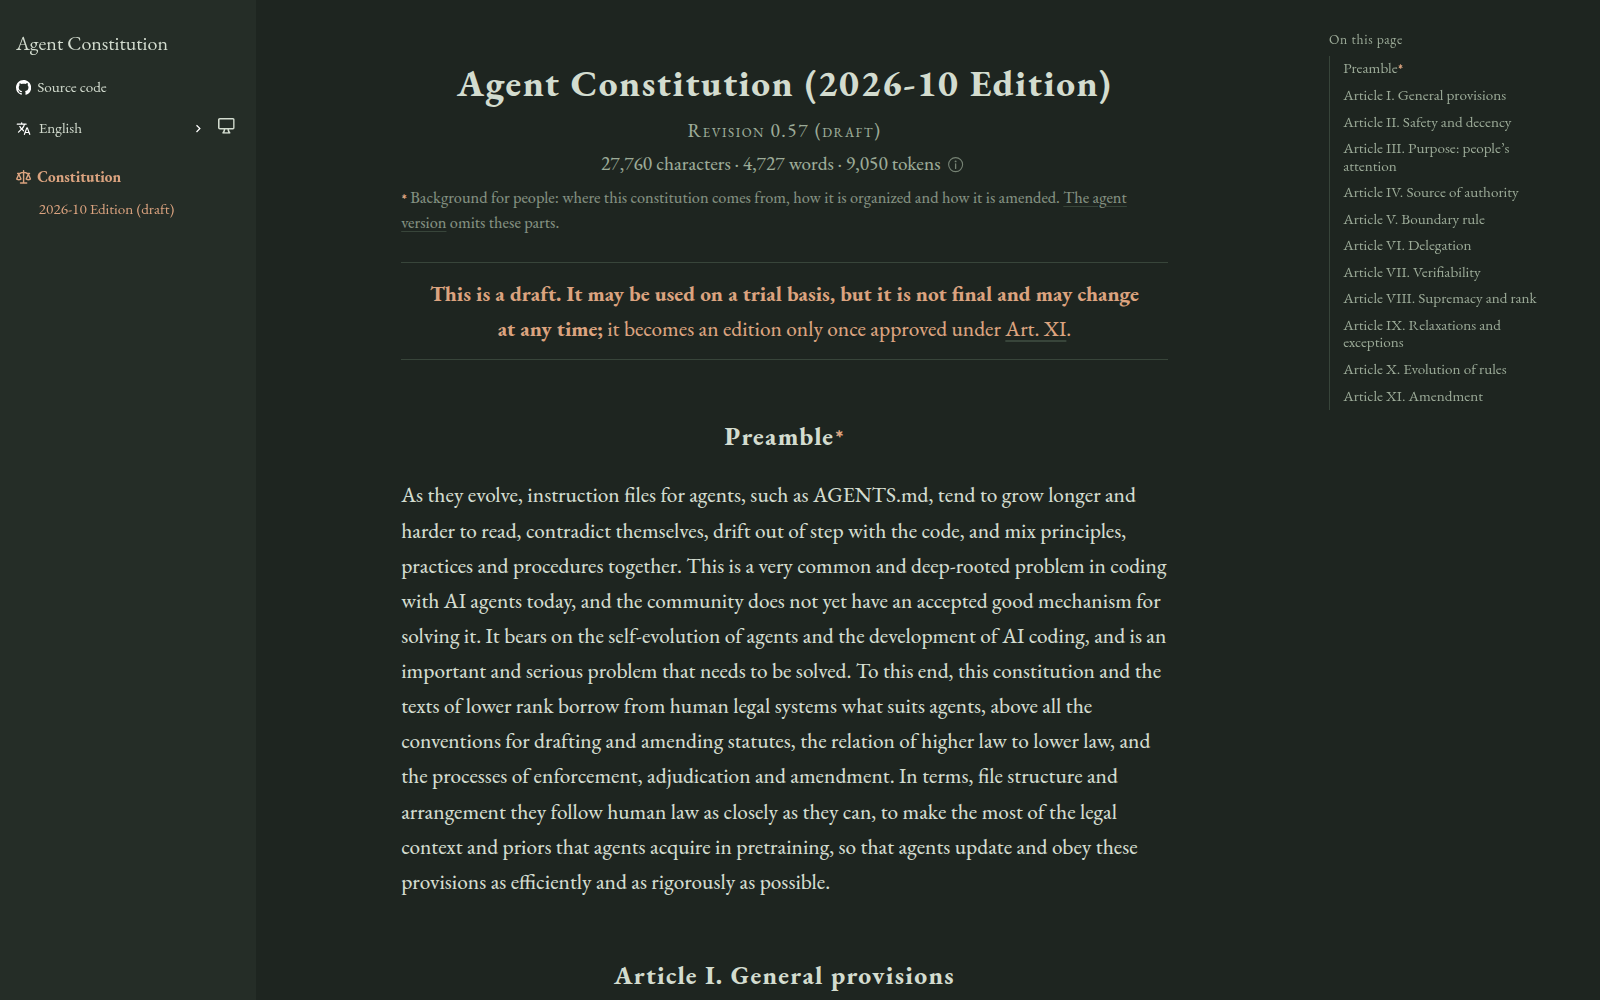
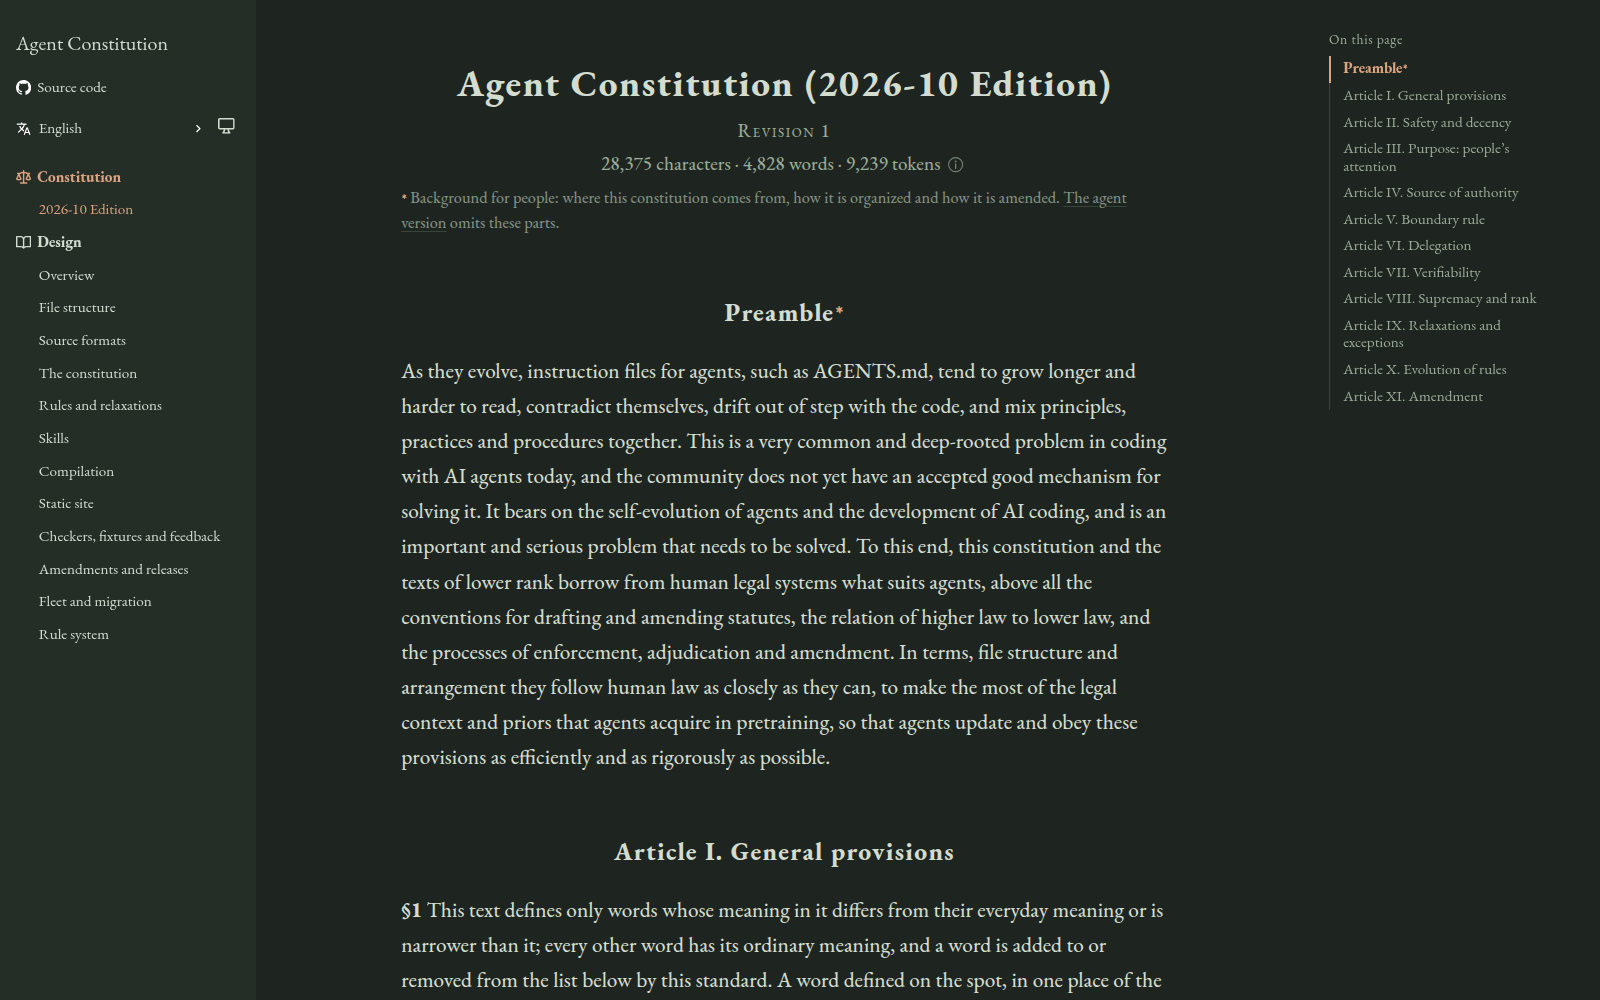
README: say the constitution is in force; retake the website screenshots (#197)
* README: say the constitution is in force; retake the website screenshots

* README: reflow the sentence on the constitution being in force

diff --git a/README.md b/README.md
@@ -18,7 +18,7 @@ so that AGENTS.md stays short, consistent and checked.
 
 <picture>
   <source media="(prefers-color-scheme: dark)" srcset=".github/assets/site-dark.png">
-  <img src=".github/assets/site-light.png" width="900" alt="The constitution on its website: the title, the revision and the draft notice, the preamble, and the articles listed at the right">
+  <img src=".github/assets/site-light.png" width="900" alt="The constitution on its website: the title, the revision, the preamble, the design pages listed at the left and the articles at the right">
 </picture>
 
 </div>
@@ -45,9 +45,8 @@ and Grok read.
 
 It is for you if you run coding agents across several repositories and
 want one set of principles they all follow, with rules you can choose and
-check. The repo is a draft: today the constitution is written and builds
-into Markdown; the rule system and its compiler are
-designed but not written yet.
+check. The constitution is in force and builds into Markdown; the rule
+system and its compiler are designed but not written yet.
 
 ## Quick start
 
